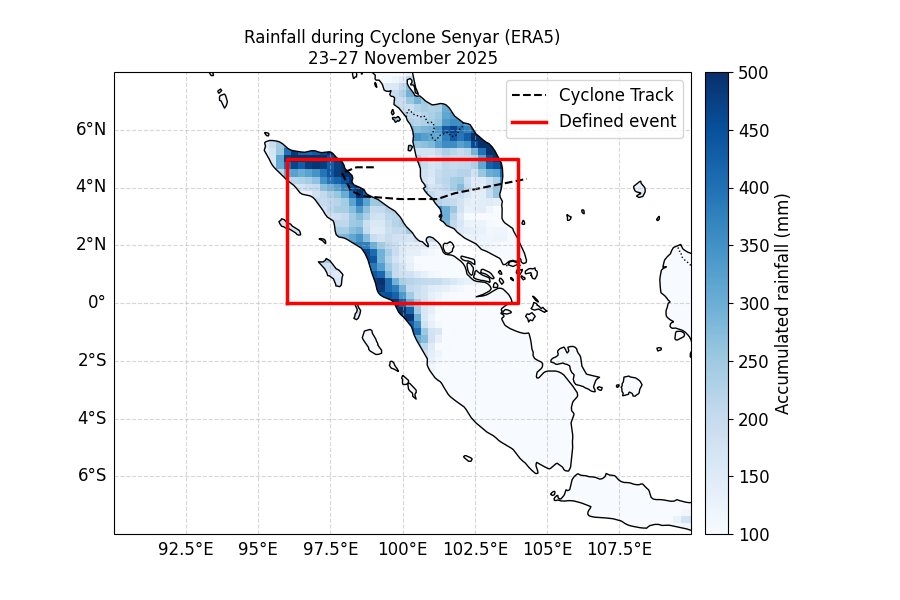
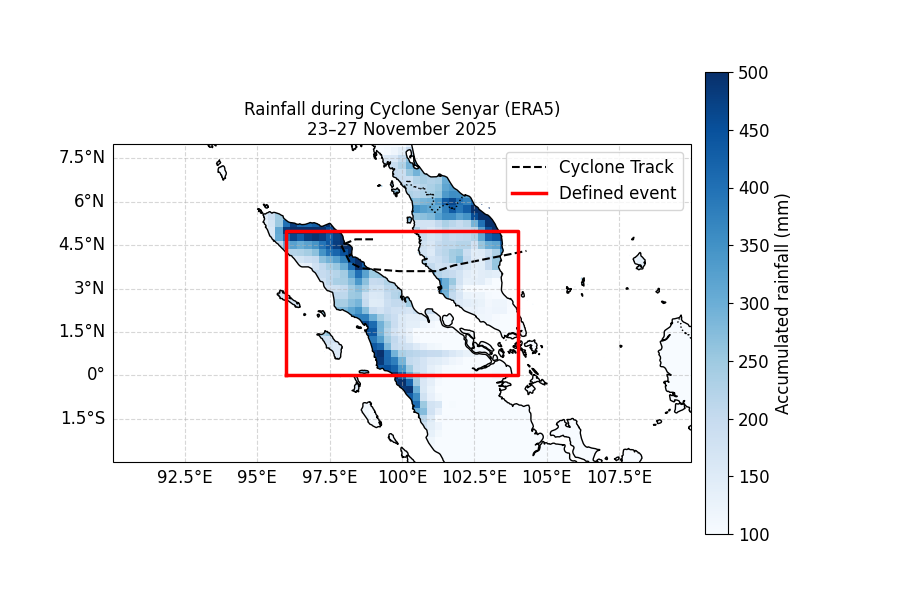
fix domain plot extent

diff --git a/scripts/project/plot_event_domain.py b/scripts/project/plot_event_domain.py
@@ -46,7 +46,7 @@ event_lat_min, event_lat_max = 0, 5
 
 # Plotting extent
 plot_lon_min, plot_lon_max = 90, 110
-plot_lat_min, plot_lat_max = -8, 8
+plot_lat_min, plot_lat_max = -3, 8
 
 # Time range
 time_start = "2025-11-23"
